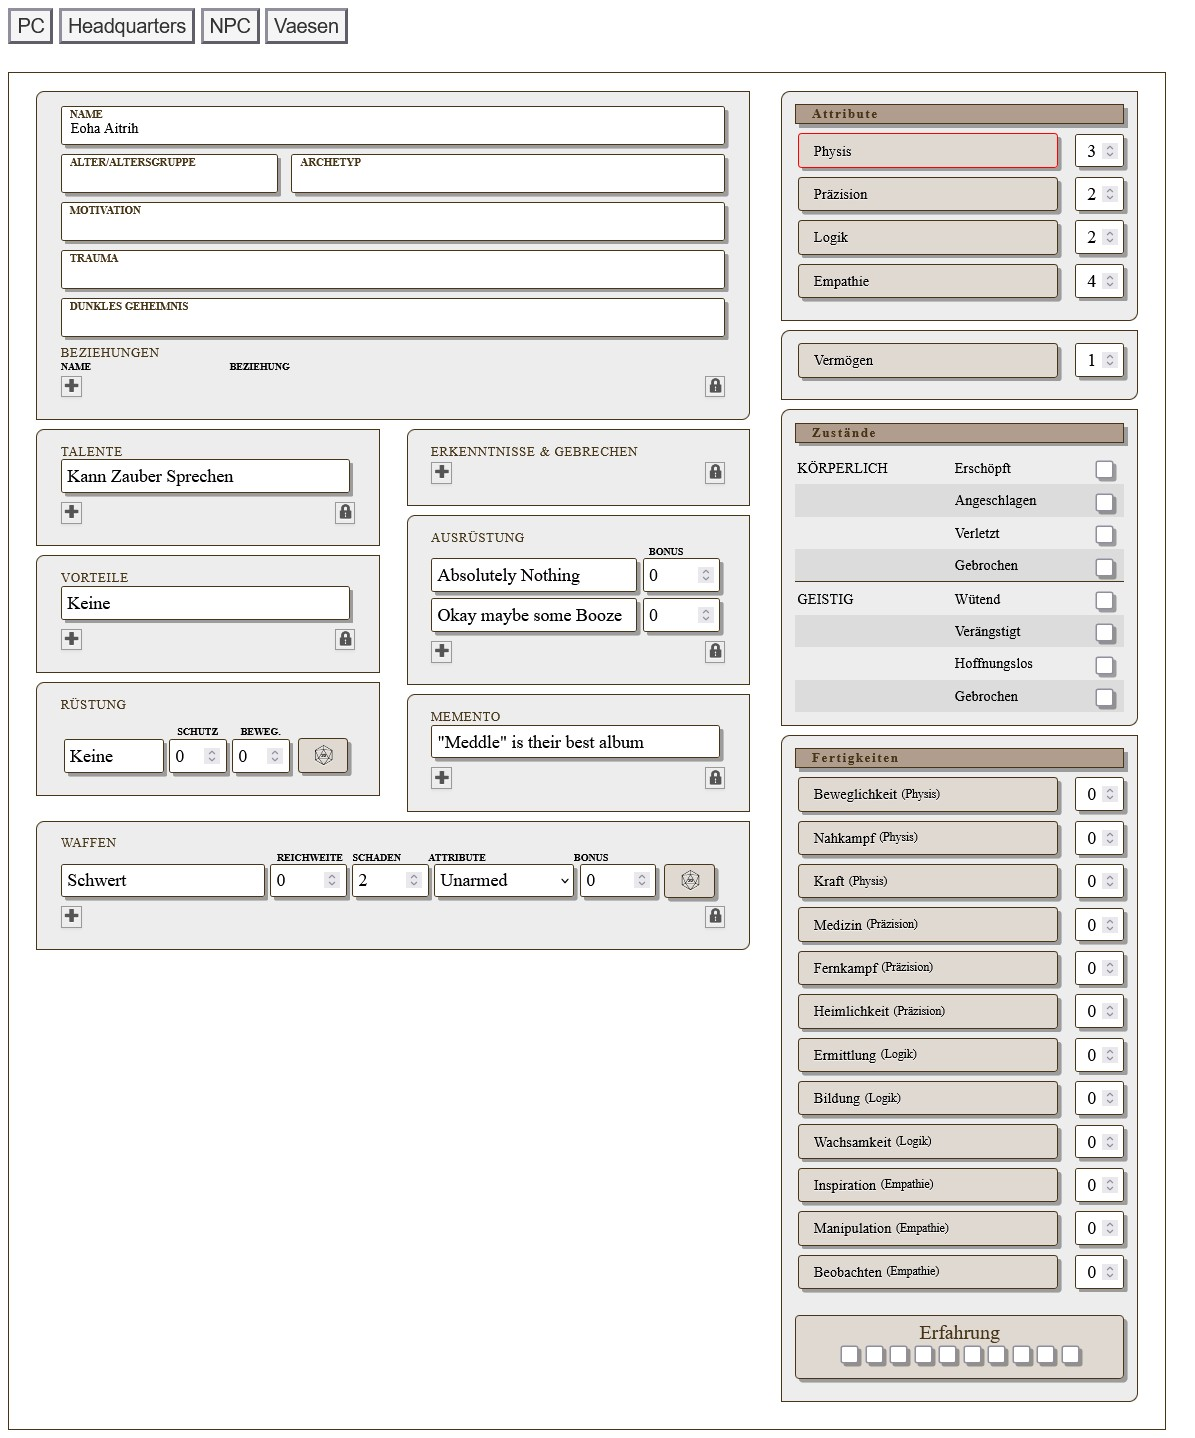
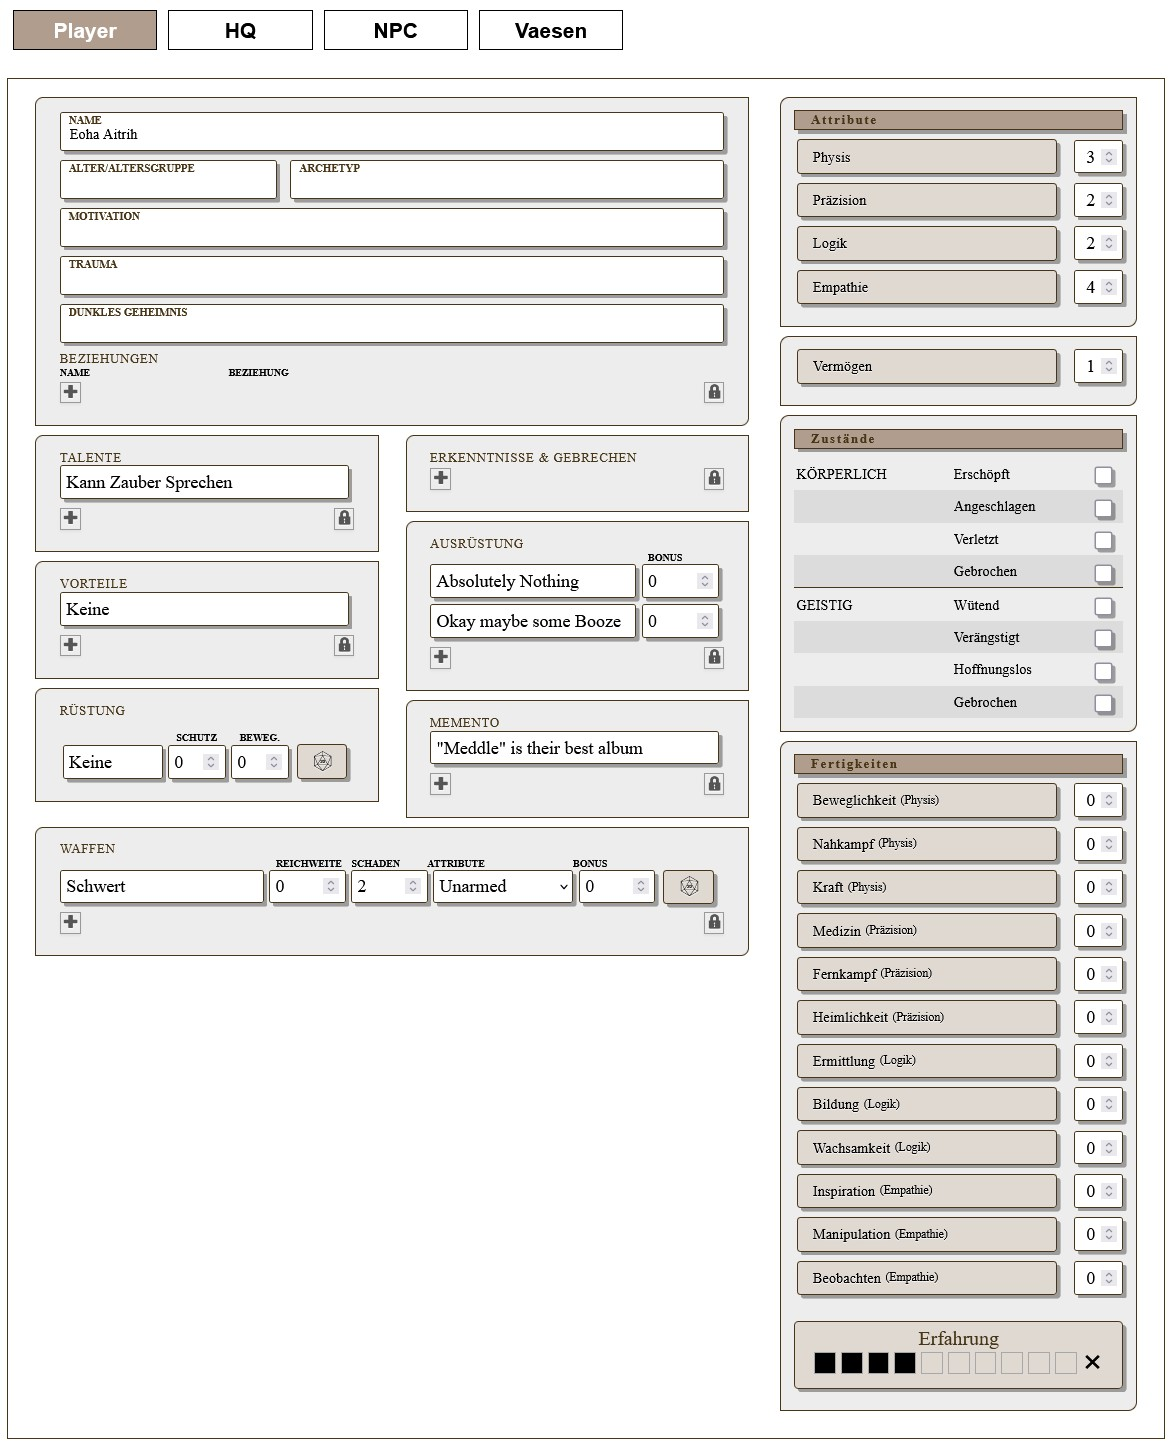
updated experience tracker

Changed region(s): [[0.0, 0.0, 0.9813, 0.9791]]

diff --git a/Vaesen/vaesen_sheet.html b/Vaesen/vaesen_sheet.html
@@ -424,7 +424,7 @@
                     </div>
                     <br>
                     <div class="label-with-checkboxes">
-                        <span data-i18n="experience">Experience</span>
+                        <span class="exp-header" data-i18n="experience">Experience</span>
                         <div class="radio-squares">
                             <input type="hidden" class="radio-max" name="attr_experience_max" value="10" />
                             <input type="radio" name="attr_experience" value="1" /><span />

diff --git a/Vaesen/vaesen_sheet.css b/Vaesen/vaesen_sheet.css
@@ -628,6 +628,14 @@ input.mysheet-sheettab9:checked ~ span.mysheet-sheettab9 {
     margin-bottom: 10px;
 }
 
+.label-with-checkboxes .exp-header {
+    display: block;
+    text-align: center;
+    font-size: 22px;
+    color: #483517;
+    line-height: normal;
+}
+
 .label-with-checkboxes div {
     display: block;
     text-align: center;
